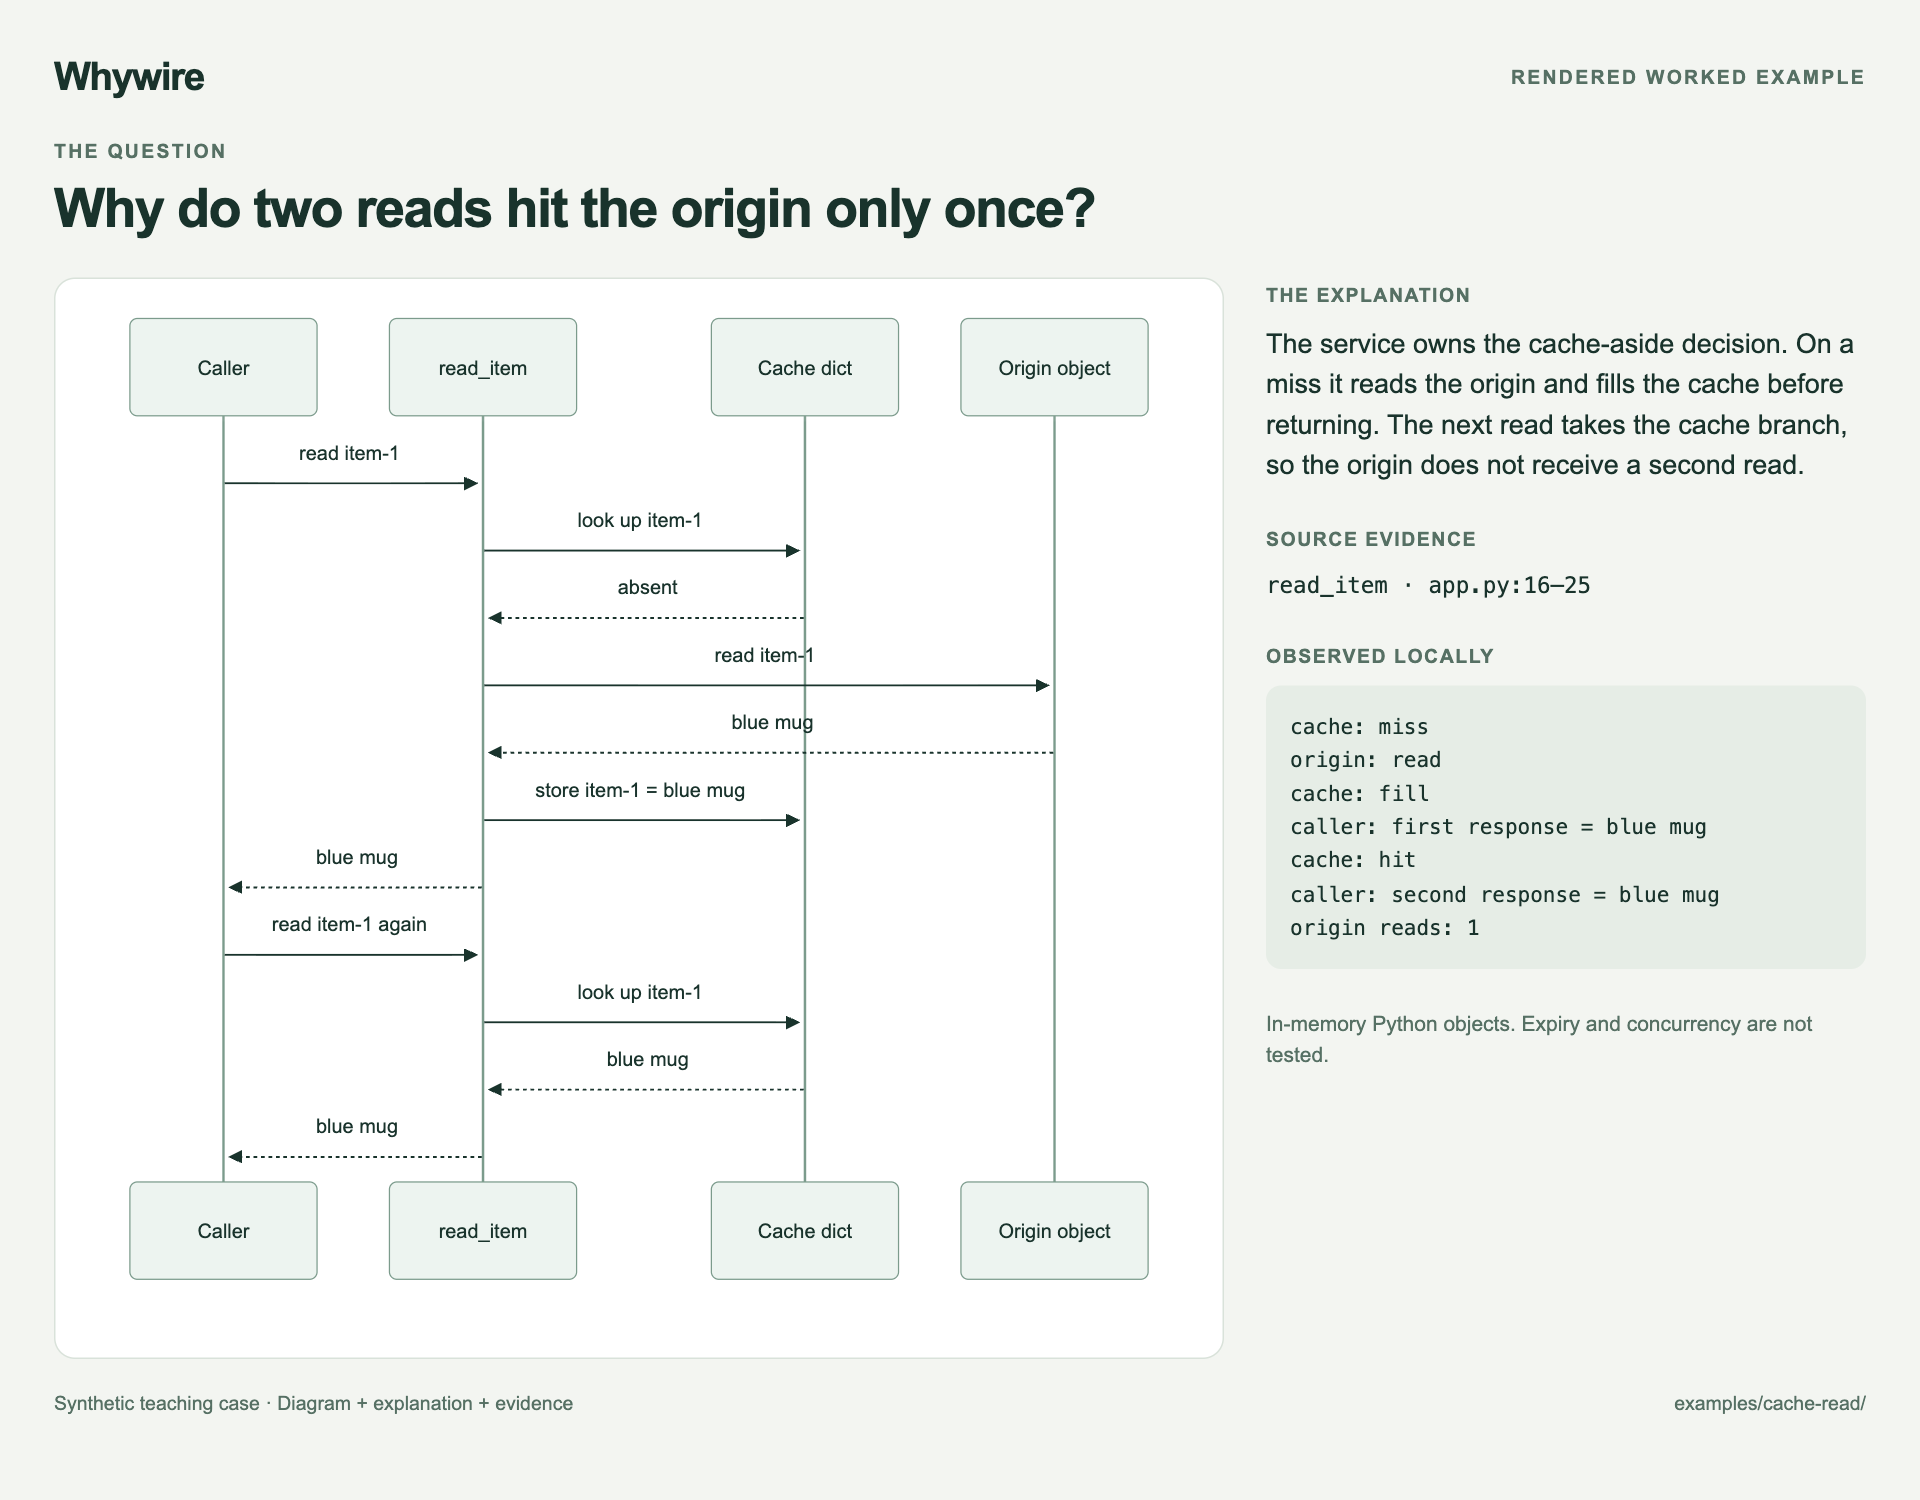
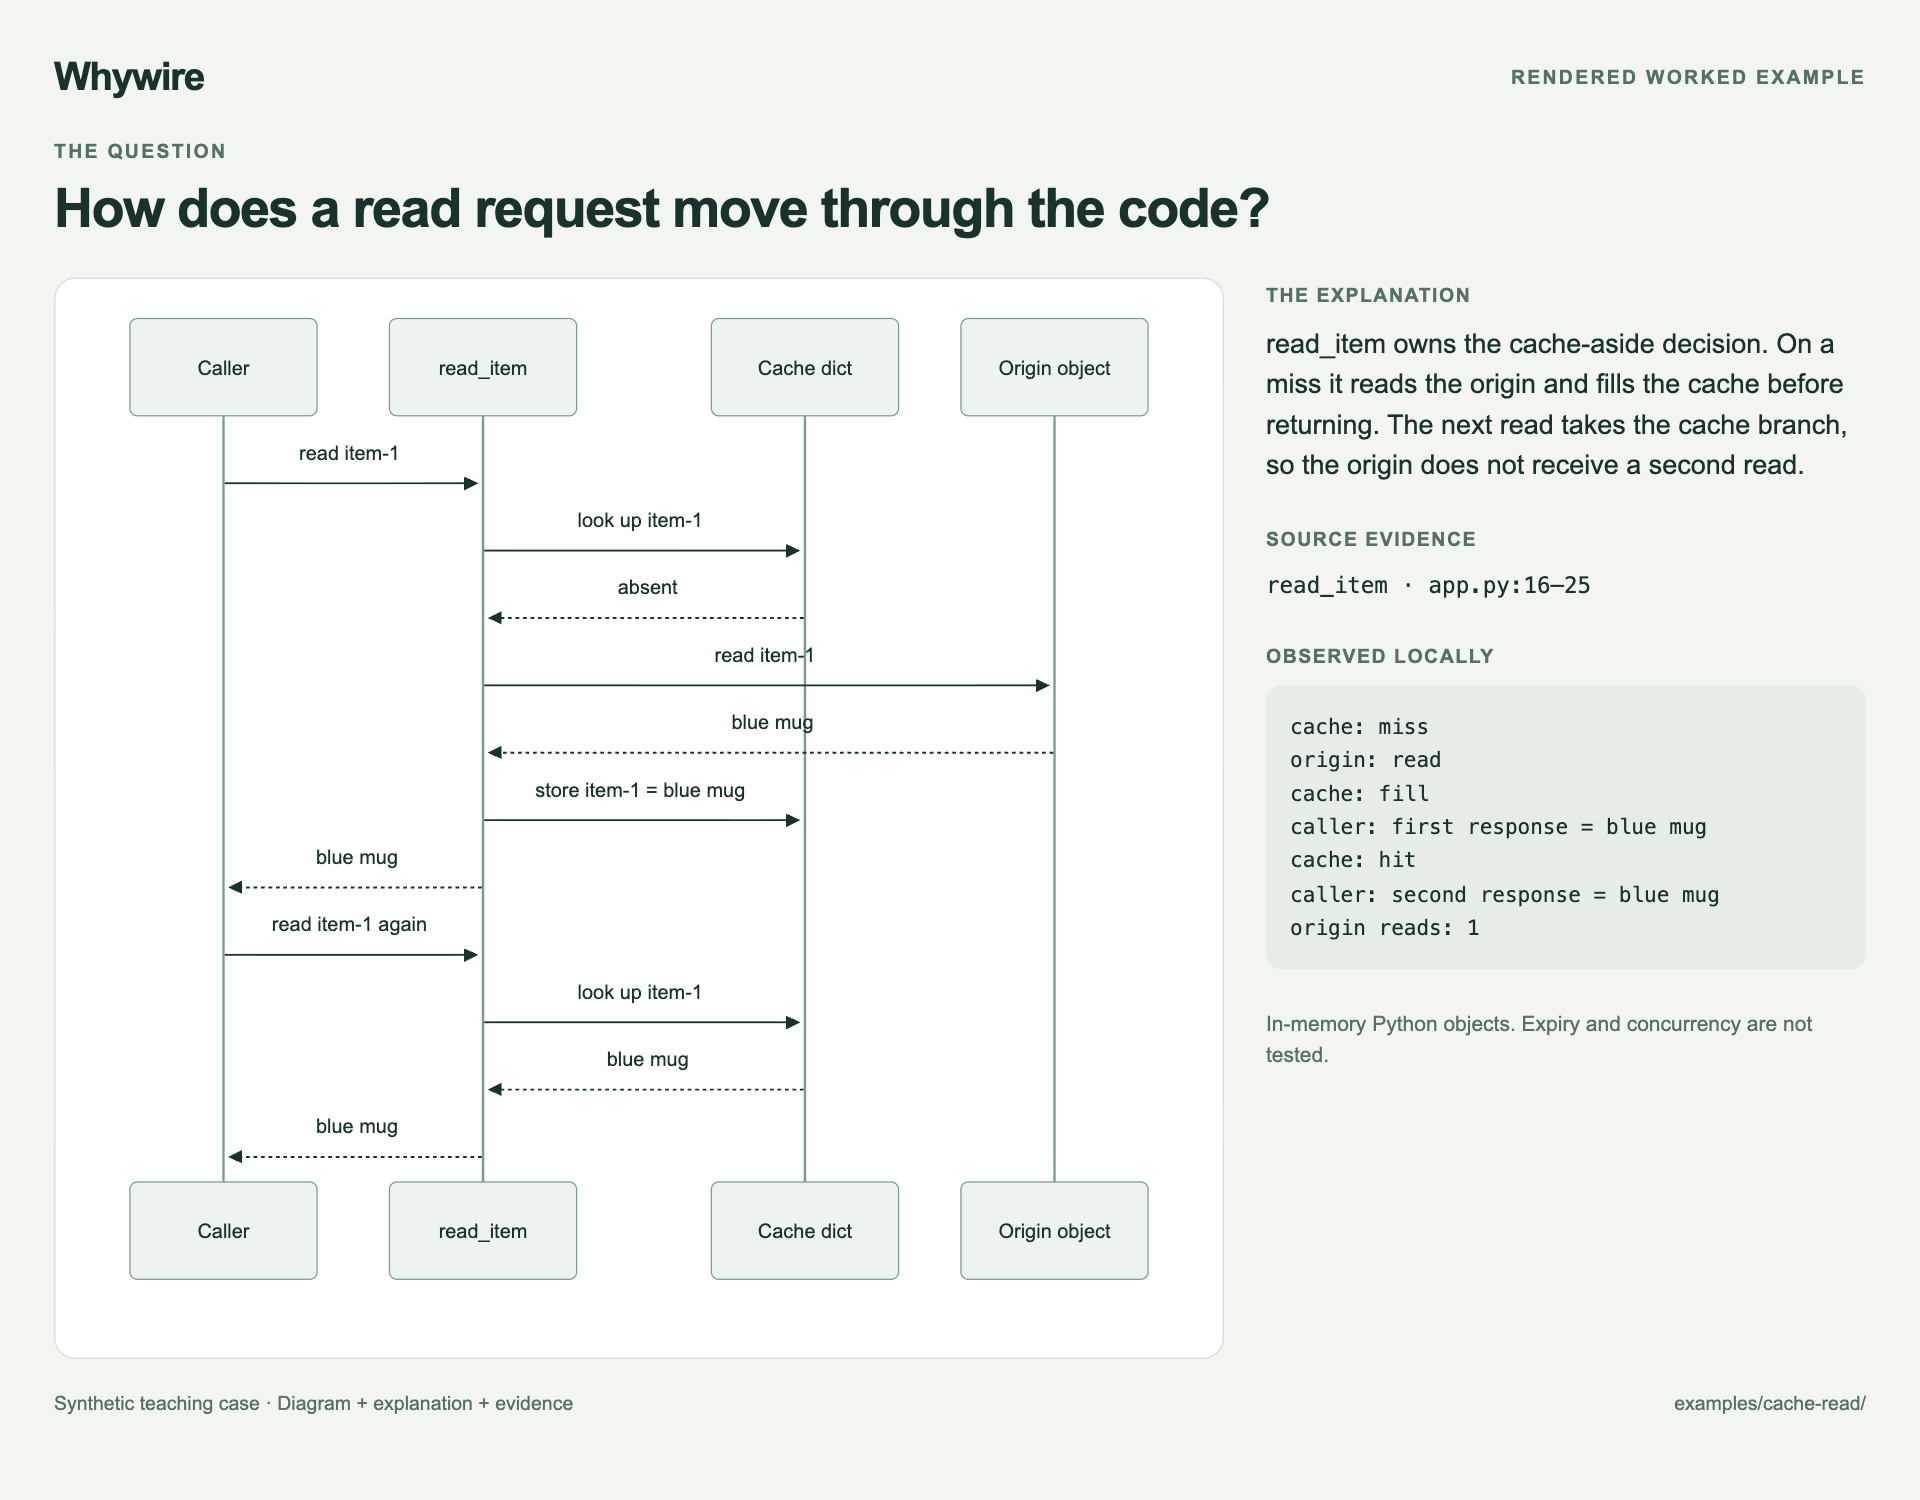
Lead with scenario-based architecture walkthroughs

Changed region(s): [[0.125, 0.1227, 0.6562, 0.1533], [0.6562, 0.2147, 0.9688, 0.2453], [0.0312, 0.1227, 0.0938, 0.1533]]

diff --git a/README.md b/README.md
@@ -3,42 +3,41 @@
 </p>
 
 <p align="center">
-  <strong>Turn code behavior into diagrams you can check.</strong><br>
-  An Agent Skill for architecture walkthroughs, causal explanations, and change reviews.
+  <strong>Understand your architecture, one scenario at a time.</strong><br>
+  An Agent Skill for following a request through code, modules, and data.
 </p>
 
 <p align="center">
   English · <a href="README.zh-CN.md">简体中文</a> · <a href="LICENSE">MIT</a>
 </p>
 
-Whywire helps an agent connect **trigger → boundary → state change → outcome**.
-Important arrows point back to code. Observations, inferences, and proposed
-changes stay distinguishable. The default output is Mermaid inside Markdown,
-so you can read, edit, and keep it alongside your code.
+Start with a scenario such as reading an item, signing in, or sending a message.
+Whywire follows **user action → entry point → module calls → data and state → result**
+to explain how the architecture works for that scenario: who does what, what
+crosses each boundary, and how the caller gets a response.
+
+Use it to learn a codebase, onboard a teammate, or document a normal request flow.
+It also helps explain changes and investigate bugs. Important arrows point back
+to code, with observations and inferences kept distinct. The default output is
+editable Mermaid inside Markdown.
 
 ## See what you get
 
 ```text
-Use $whywire to explain why a deleted item comes back in this code.
+Use $whywire to trace a read of item-1 from the caller to the returned value.
+Explain the modules, the data passed, and what changes on the next read.
 ```
 
-An explanation you can inspect: **the causal diagram, the responsible write,
-source evidence, and an observable result.**
-
-![Whywire output preview: a late completion overwrites deletion; the diagram, source reference, and actual example output explain why.](docs/previews/late-result.png)
-
-Rendered from a runnable teaching case. The output is Markdown + Mermaid;
-presentation varies by agent. Read the [full explanation](examples/late-result/explanation.md)
-or inspect the [source](examples/late-result/app.py#L20-L27).
-
-## A small example
-
-**Question:** Why do two calls return the value but read the origin only once?
+You get **a request sequence, module responsibilities, the data and return path,
+and source entry points** for exploring the implementation.
 
 **Answer:** `read_item` owns the cache-aside decision. The first call fills the
 cache; the next call returns from the hit branch before reaching the origin.
 
 ![Whywire cache walkthrough: two reads return blue mug, while the actual run records one origin read.](docs/previews/cache-read.png)
+
+Rendered from a runnable teaching case using in-process Python objects. The
+output is Markdown + Mermaid; presentation varies by agent.
 
 <details>
 <summary>View the editable Mermaid source</summary>
@@ -47,8 +46,8 @@ cache; the next call returns from the hit branch before reaching the origin.
 sequenceDiagram
     participant C as Caller
     participant S as read_item
-    participant K as Cache
-    participant O as Origin
+    participant K as Cache dict
+    participant O as Origin object
     C->>S: first read
     S->>K: look up item
     K-->>S: absent
@@ -69,11 +68,23 @@ Check the [implementation](examples/cache-read/app.py#L16-L25),
 [full explanation](examples/cache-read/explanation.md), including what this
 single-process example does **not** establish.
 
+## Also useful for debugging
+
+Once you understand a flow, you can use the same method to explain an unexpected
+result: **“Why does a deleted item come back?”**
+
+![Whywire debugging preview: the sequence diagram traces a late write, with source evidence and actual example output.](docs/previews/late-result.png)
+
+Read the [worked explanation](examples/late-result/explanation.md) and
+[source](examples/late-result/app.py#L20-L27). Failure analysis is optional;
+an ordinary architecture walkthrough does not need a bug or a proposed fix.
+
 ## When it helps
 
 | Your question | Useful output |
 | --- | --- |
 | “What happens after I click Send?” | One execution path with concrete boundaries and state changes. |
+| “I'm new to this repository. How is a read handled?” | A scenario walkthrough with module responsibilities, data flow, and source entry points. |
 | “Why is this cache or queue here?” | Its role in the inspected path and the assumptions behind that role. |
 | “Why did the item reappear?” | A causal mechanism, source evidence, and a check that distinguishes alternatives. |
 | “What does this PR change?” | Current and changed flows, with implemented behavior separated from proposals. |

diff --git a/skills/whywire/SKILL.md b/skills/whywire/SKILL.md
@@ -1,6 +1,6 @@
 ---
 name: whywire
-description: Explain code behavior with compact, source-backed causal diagrams. Use for architecture walkthroughs, request and event flows, lifecycle questions, bug mechanisms, and before/after change explanations. Follow what crosses a boundary, what changes state, and what the caller actually observes. Use plain text when a diagram adds no clarity.
+description: Understand architecture through a concrete user scenario or request flow, with compact diagrams grounded in source. Use for codebase onboarding, tracing calls and data across modules, explaining component responsibilities, comparing changes, and investigating bugs. Use plain text when a diagram adds no clarity.
 license: MIT
 ---
 
@@ -8,20 +8,22 @@ license: MIT
 
 **Follow the flow. Understand the why.**
 
-Explain one behavior at a time. Every meaningful arrow should help the reader
-understand what happens, why it happens, or where the evidence ends.
+Understand a system by following one scenario through its code. Every meaningful
+arrow should explain what happens, which component is responsible, and how the
+result reaches the caller. Debugging is one use, not a prerequisite.
 
-## Start with the question
+## Start with the scenario
 
-Identify the reader's question and one observable outcome. Start with the
-relevant entry point, its callers, state owner, and downstream consumers.
+Identify the actor, the action they take, and the outcome they want to understand.
+Start with the relevant entry point, its callers, state owner, and downstream consumers.
 Expand only far enough to explain that outcome. If scope is ambiguous, state
 a reasonable bounded interpretation; ask when competing interpretations
 would materially change the answer.
 
 Choose the emphasis that fits the request:
 
-- **Understand:** trace a real path and explain why its boundaries exist.
+- **Understand (default for architecture and onboarding):** follow a normal
+  scenario from entry to result, explaining each module's responsibility.
 - **Investigate:** separate the reported symptom from the observed mechanism.
 - **Compare:** distinguish current behavior from a proposed or verified change.
 
@@ -33,8 +35,18 @@ publishing artifacts. Use the access and permissions already granted.
 Trace:
 
 ```text
-trigger → boundary crossing → state change → downstream reaction → observable outcome
+user action or trigger → entry point → calls and data → state changes → returned or delivered result
 ```
+
+Orient the reader with a small component overview only when it helps locate the
+scenario. Then follow one representative path: who calls whom, what data crosses
+each boundary, what each module does, and how the result returns or arrives later.
+Show branches that change this scenario, such as a cache hit versus a miss.
+Keep unrelated modules and exhaustive failure analysis outside that walkthrough.
+A scenario explains one slice of the architecture; say what remains outside it.
+
+Explain each component's role from the inspected behavior. Distinguish that role
+from inferred reasons for the design; do not invent the author's intent.
 
 Use concrete operations and state names. `API → worker` is a relationship;
 `API commits pending → publishes job → worker claims pending` explains behavior.
@@ -84,11 +96,11 @@ Use another output format when the user requests it and a suitable tool exists.
 Lead with the answer, then the diagram and the evidence needed to assess it.
 Include only the following parts that matter to the question:
 
-- the path and its source references;
-- the invariant: a condition the system must preserve;
-- the failure point or unresolved boundary;
-- the smallest coherent change, if a change was requested;
-- a discriminating check: what observation would support or refute the explanation.
+- the scenario, entry point, and path to the requested outcome;
+- module responsibilities, data passed, important state changes, and return paths;
+- source entry points for continuing to explore the code;
+- invariants, failure points, or discriminating checks when investigating behavior;
+- the smallest coherent change, if a change was requested.
 
 For a bug, explain why the mechanism produces the symptom and where ownership
 puts the fix. Do not announce a root cause until evidence distinguishes it from

diff --git a/docs/validation.md b/docs/validation.md
@@ -1,5 +1,23 @@
 # Validation record
 
+## Scenario walkthrough update — 2026-10-07
+
+Architecture and onboarding now default to a normal scenario walkthrough. Both
+READMEs lead with the cache-read flow; debugging remains an optional use. The
+cache preview was regenerated from its explanation, diagram, and actual run.
+
+A fresh agent received only the revised skill, the cache-read request, and its
+Python source. The answer traced the entry point, calls, data, component roles,
+and both return paths without inventing services or proposing an unrequested fix.
+It ran the example and its assertions, and its Mermaid rendered successfully
+with the official CLI. This is one qualitative trial on a synthetic fixture.
+
+Repository checks passed again: 48 local references, all three example checks,
+8 diagrams in 6 Markdown files, copied installations for Codex and Claude Code,
+and skill metadata validation. The updated preview was visually inspected.
+
+## Initial version — 2026-10-05
+
 Local first-version checks, 2026-10-05. These are packaging, example, rendering,
 and qualitative first-use checks. They are not a model-quality benchmark or
 production validation.

diff --git a/examples/cache-read/request.md b/examples/cache-read/request.md
@@ -2,10 +2,11 @@
 
 This is a synthetic learning example, not a production service.
 
-Read `app.py` and explain what happens when the caller reads the same item twice.
-Use a compact diagram to make the responsibility of the cache and the origin
-clear. Support the explanation with source references and observations from a
-local run. State what the example does not establish about a real system.
+I am learning this codebase. Read `app.py` and walk through the scenario where
+the caller reads the same item twice, from the entry point to the returned value.
+Use a compact diagram to explain each component's responsibility, the data it
+passes, and the return path. Support the explanation with source references and
+observations from a local run. State what the example does not establish about a real system.
 
 Use `app.py` as the input. Leave `explanation.md` closed until you have written
 your own explanation; it is a worked example, not additional source evidence.

diff --git a/AGENTS.md b/AGENTS.md
@@ -1,6 +1,7 @@
 # Working on Whywire
 
-Whywire is a small instruction-based skill for source-backed causal explanations.
+Whywire is a small instruction-based skill for understanding architecture through
+source-backed scenario walkthroughs, with debugging as one optional use.
 The canonical skill is `skills/whywire/SKILL.md`; examples and repository tooling
 are development material, not runtime requirements.
 

diff --git a/examples/cache-read/explanation.md b/examples/cache-read/explanation.md
@@ -1,6 +1,6 @@
 # Two reads, one origin access
 
-The service owns the cache-aside decision. On a miss it reads the origin and
+`read_item` owns the cache-aside decision. On a miss it reads the origin and
 fills the cache before returning. The next read takes the cache branch, so the
 origin does not receive a second read.
 
